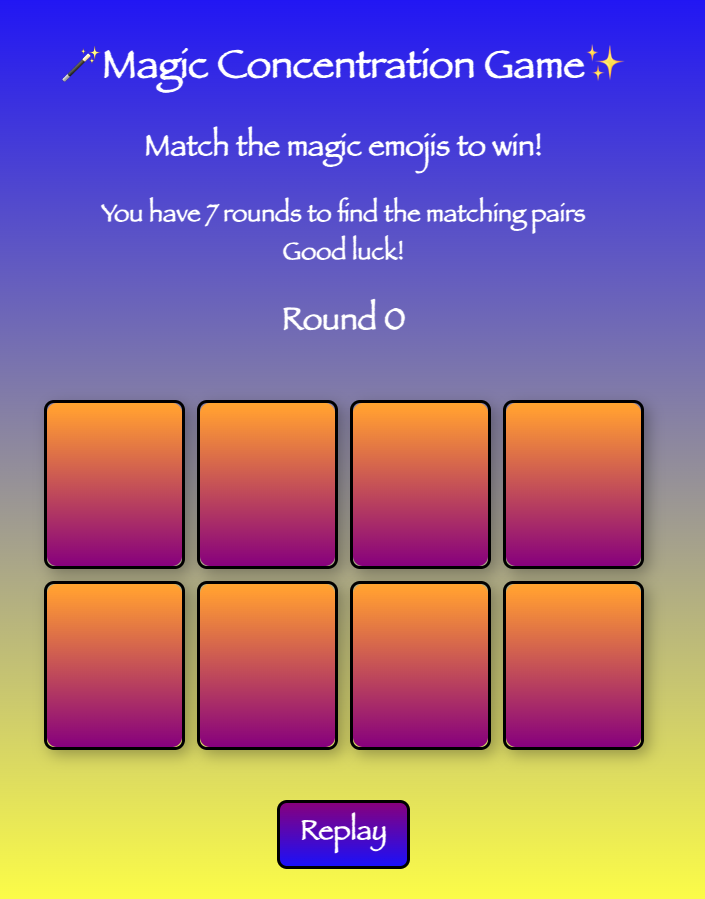
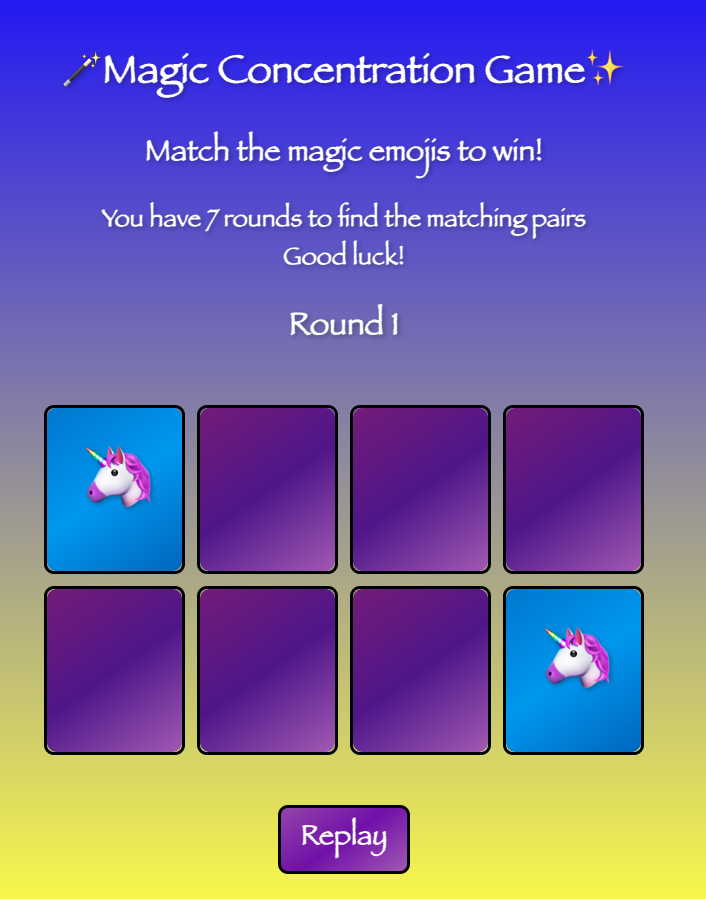
edited buttons for mobile look

diff --git a/css/style.css b/css/style.css
@@ -120,7 +120,7 @@ header {
         gap: 20px;
         width: 80%;
         height: 100%;
-        margin: 15px 0;
+        margin: 0;
       }
       
       .card {
@@ -133,7 +133,7 @@ header {
         border-radius: 10px;
         
       }
-    /*from google */
+   
       .card-inner {
         position: relative;
         width: 100%;

diff --git a/README.md b/README.md
@@ -35,7 +35,6 @@ Concentration was one of my favorite games growing up. I wanted to create and vi
 * CSS
 
 ## 🚀 Next steps/ Stretch goals
-* Making game playable on mobile
 * Adding more cards
 * Adding a logo to front of cards and more style to make them look like real playing cards
 * Adding difficulty levels
